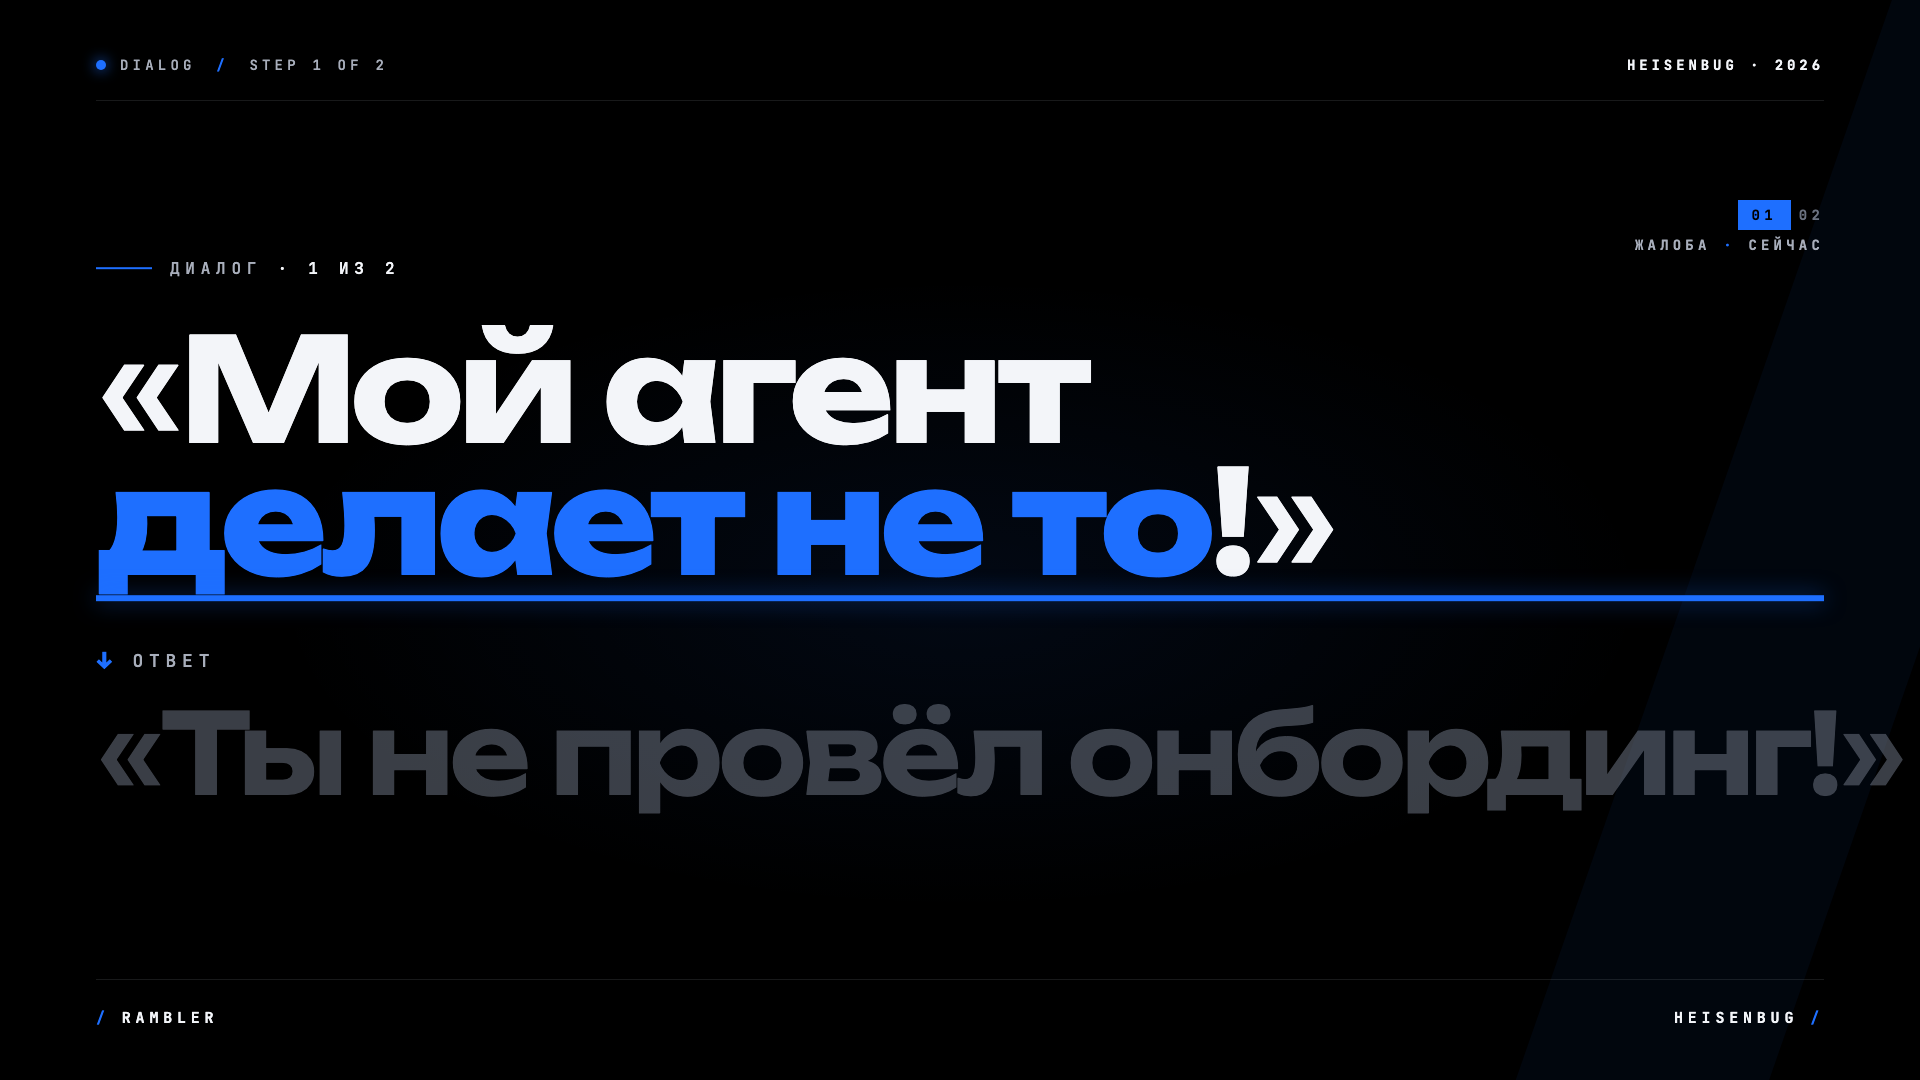
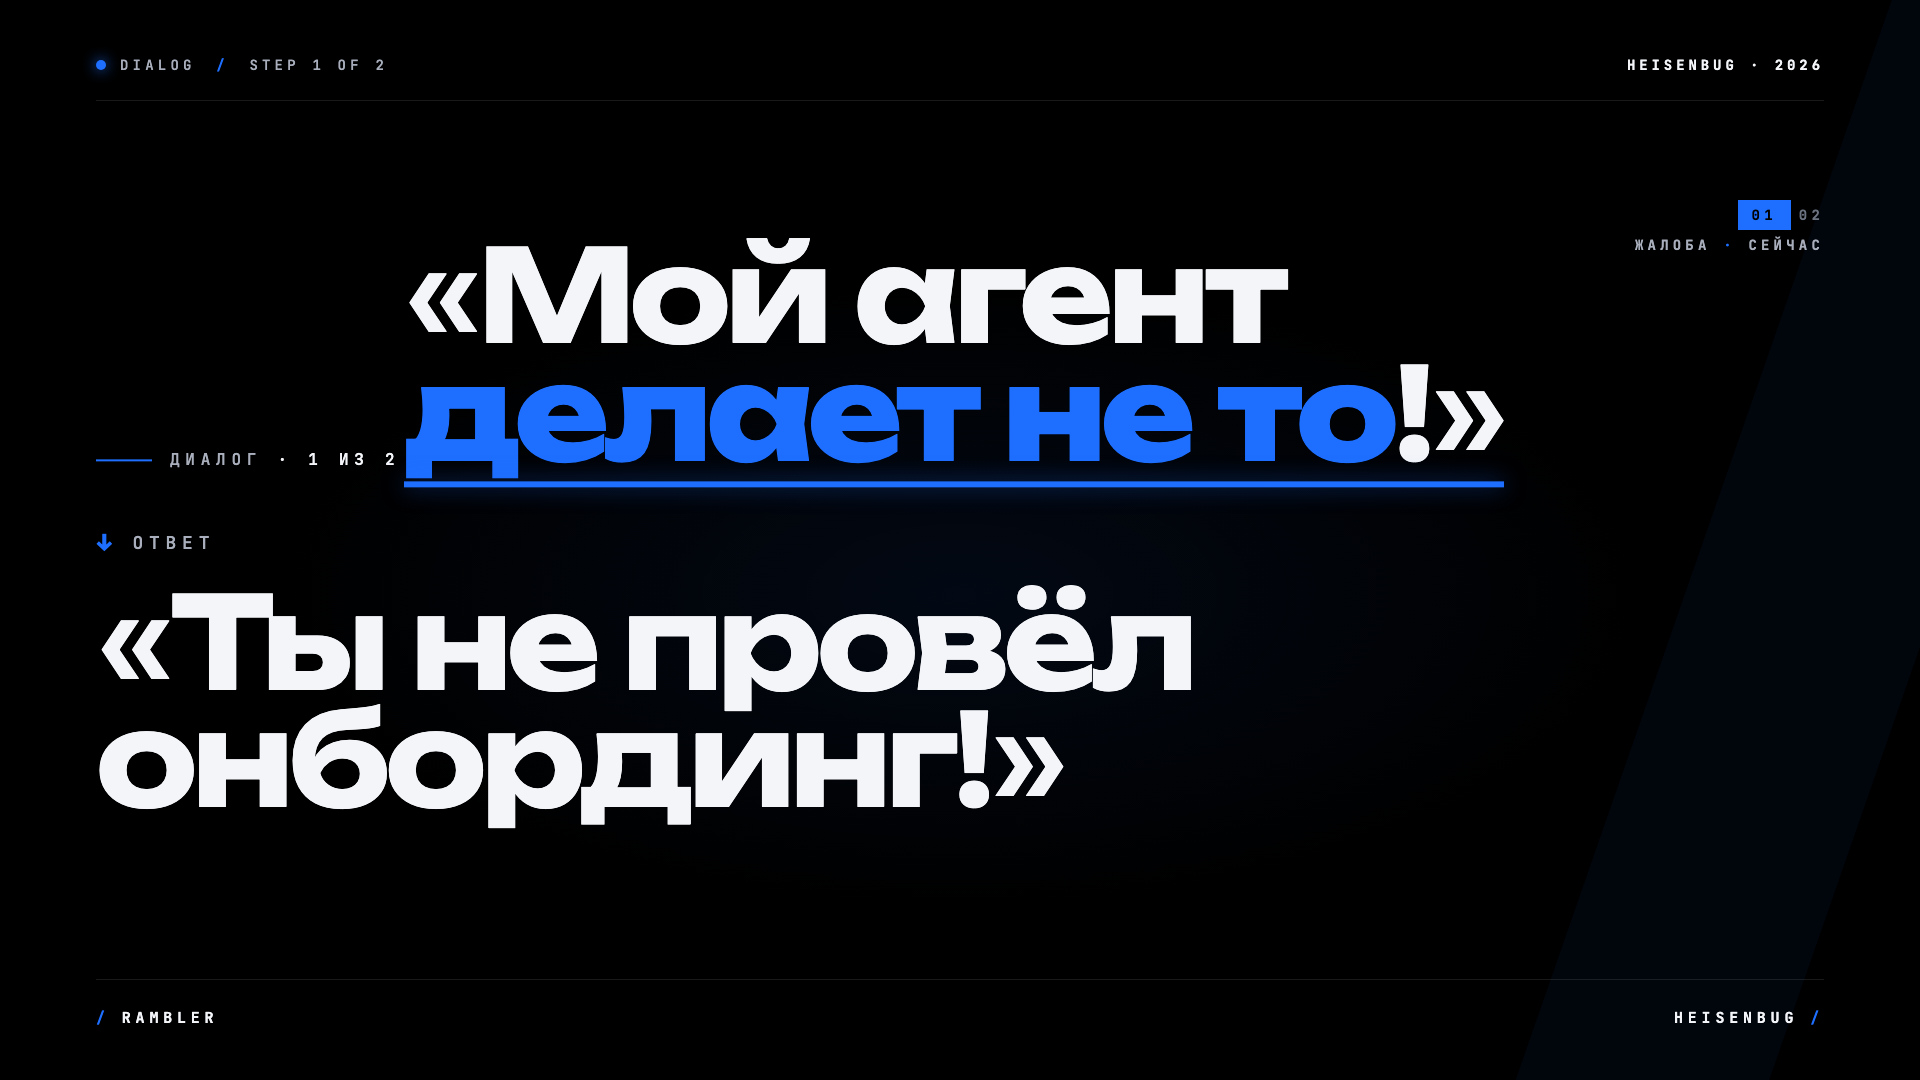
agent slides: унификация шрифта и раскладки — отличие только в цвете
- оба блока на обоих слайдах: 128px Unbounded 700, одинаковые переносы
- убрано приглушение (opacity/меньший шрифт) у неактивной реплики
- единственное отличие между слайдами: где лежит .hi (синий цвет)
  и ::after glow-подчёркивание

Changed region(s): [[0.0312, 0.2139, 1.0, 0.7639], [0.0938, 0.2444, 0.125, 0.275]]

diff --git a/assets/rambler_slides/agent_diagnosis_slide.html b/assets/rambler_slides/agent_diagnosis_slide.html
@@ -11,33 +11,22 @@
 <style>
   .hero { top: 50%; transform: translateY(-52%); }
 
+  /* unified block — identical size, weight, wrapping on both slides */
   .block {
     font-family: "Unbounded", sans-serif;
     font-weight: 700;
+    font-size: 128px;
     line-height: 0.92;
     letter-spacing: -0.04em;
-  }
-  .block .quote { font-weight: 400; }
-
-  /* complaint block (top) — DIMMED on this slide */
-  .block.complaint {
-    font-size: 112px;
-    color: var(--alu-dim);
-    font-weight: 600;
-    opacity: 0.55;
-    margin-bottom: 52px;
-  }
-  .block.complaint .muted { color: var(--alu-dim); }
-
-  /* diagnosis block (bottom) — ACTIVE on this slide */
-  .block.diagnosis {
-    font-size: 144px;
     color: var(--paper);
     position: relative;
     display: inline-block;
+    margin-bottom: 48px;
   }
-  .block.diagnosis .hi { color: var(--rambler); font-weight: 800; }
-  .block.diagnosis::after {
+  .block:last-of-type { margin-bottom: 0; }
+  .block .quote { font-weight: 400; }
+  .block .hi { color: var(--rambler); font-weight: 800; }
+  .block.active::after {
     content: "";
     position: absolute;
     left: 0; right: 0; bottom: -14px;
@@ -46,7 +35,7 @@
     box-shadow: 0 0 22px rgba(30,111,255,0.55);
   }
 
-  /* small connector arrow between blocks */
+  /* connector */
   .connector {
     font-family: "JetBrains Mono", monospace;
     font-weight: 500;
@@ -59,6 +48,7 @@
   }
   .connector .arrow { color: var(--rambler); font-family: "Unbounded", sans-serif; font-weight: 700; font-size: 22px; }
 
+  /* step indicator */
   .step {
     position: absolute;
     right: 96px;
@@ -109,13 +99,15 @@
     </div>
 
     <div class="block complaint">
-      <span class="quote muted">«</span><span class="muted">Мой&nbsp;агент&nbsp;делает&nbsp;не&nbsp;то</span>!<span class="quote muted">»</span>
+      <span class="quote">«</span>Мой&nbsp;агент<br>
+      делает&nbsp;не&nbsp;то!<span class="quote">»</span>
     </div>
 
     <div class="connector"><span class="arrow">↓</span><span>ответ</span></div>
 
-    <div class="block diagnosis">
-      <span class="quote">«</span>Ты <span class="hi">не&nbsp;провёл</span><br><span class="hi">онбординг</span>!<span class="quote">»</span>
+    <div class="block diagnosis active">
+      <span class="quote">«</span>Ты <span class="hi">не&nbsp;провёл</span><br>
+      <span class="hi">онбординг</span>!<span class="quote">»</span>
     </div>
   </div>
 

diff --git a/assets/rambler_slides/agent_complaint_slide.html b/assets/rambler_slides/agent_complaint_slide.html
@@ -11,24 +11,22 @@
 <style>
   .hero { top: 50%; transform: translateY(-52%); }
 
+  /* unified block — identical size, weight, wrapping on both slides */
   .block {
     font-family: "Unbounded", sans-serif;
     font-weight: 700;
+    font-size: 128px;
     line-height: 0.92;
     letter-spacing: -0.04em;
-  }
-  .block .quote { font-weight: 400; }
-
-  /* complaint block (top) — ACTIVE on this slide */
-  .block.complaint {
-    font-size: 144px;
     color: var(--paper);
-    margin-bottom: 52px;
     position: relative;
     display: inline-block;
+    margin-bottom: 48px;
   }
-  .block.complaint .hi { color: var(--rambler); font-weight: 800; }
-  .block.complaint::after {
+  .block:last-of-type { margin-bottom: 0; }
+  .block .quote { font-weight: 400; }
+  .block .hi { color: var(--rambler); font-weight: 800; }
+  .block.active::after {
     content: "";
     position: absolute;
     left: 0; right: 0; bottom: -14px;
@@ -37,16 +35,7 @@
     box-shadow: 0 0 22px rgba(30,111,255,0.55);
   }
 
-  /* diagnosis block (bottom) — DIMMED on this slide */
-  .block.diagnosis {
-    font-size: 112px;
-    color: var(--alu-dim);
-    font-weight: 600;
-    opacity: 0.55;
-  }
-  .block.diagnosis .muted { color: var(--alu-dim); }
-
-  /* small connector arrow between blocks */
+  /* connector */
   .connector {
     font-family: "JetBrains Mono", monospace;
     font-weight: 500;
@@ -110,14 +99,16 @@
       <span>Диалог <span class="hi">· 1 из 2</span></span>
     </div>
 
-    <div class="block complaint">
-      <span class="quote">«</span>Мой&nbsp;агент <span class="hi">делает&nbsp;не&nbsp;то</span>!<span class="quote">»</span>
+    <div class="block complaint active">
+      <span class="quote">«</span>Мой&nbsp;агент<br>
+      <span class="hi">делает&nbsp;не&nbsp;то</span>!<span class="quote">»</span>
     </div>
 
     <div class="connector"><span class="arrow">↓</span><span>ответ</span></div>
 
     <div class="block diagnosis">
-      <span class="quote muted">«</span><span class="muted">Ты&nbsp;не&nbsp;провёл&nbsp;онбординг</span>!<span class="quote muted">»</span>
+      <span class="quote">«</span>Ты&nbsp;не&nbsp;провёл<br>
+      онбординг!<span class="quote">»</span>
     </div>
   </div>
 
